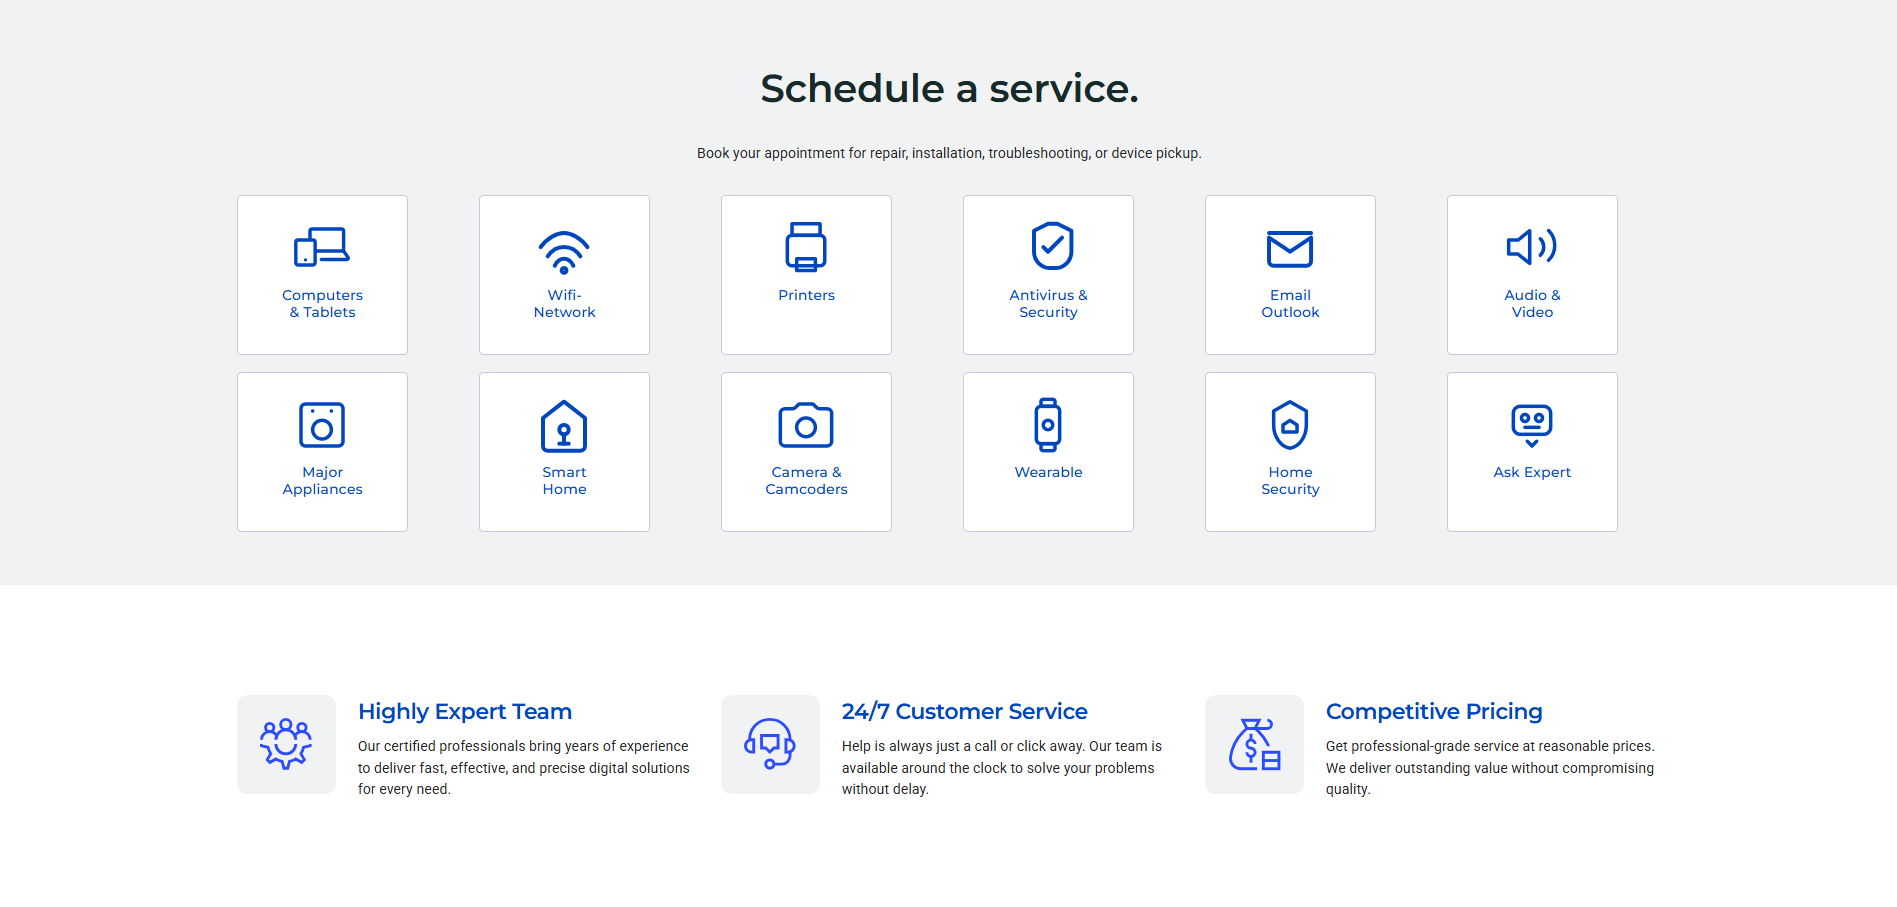
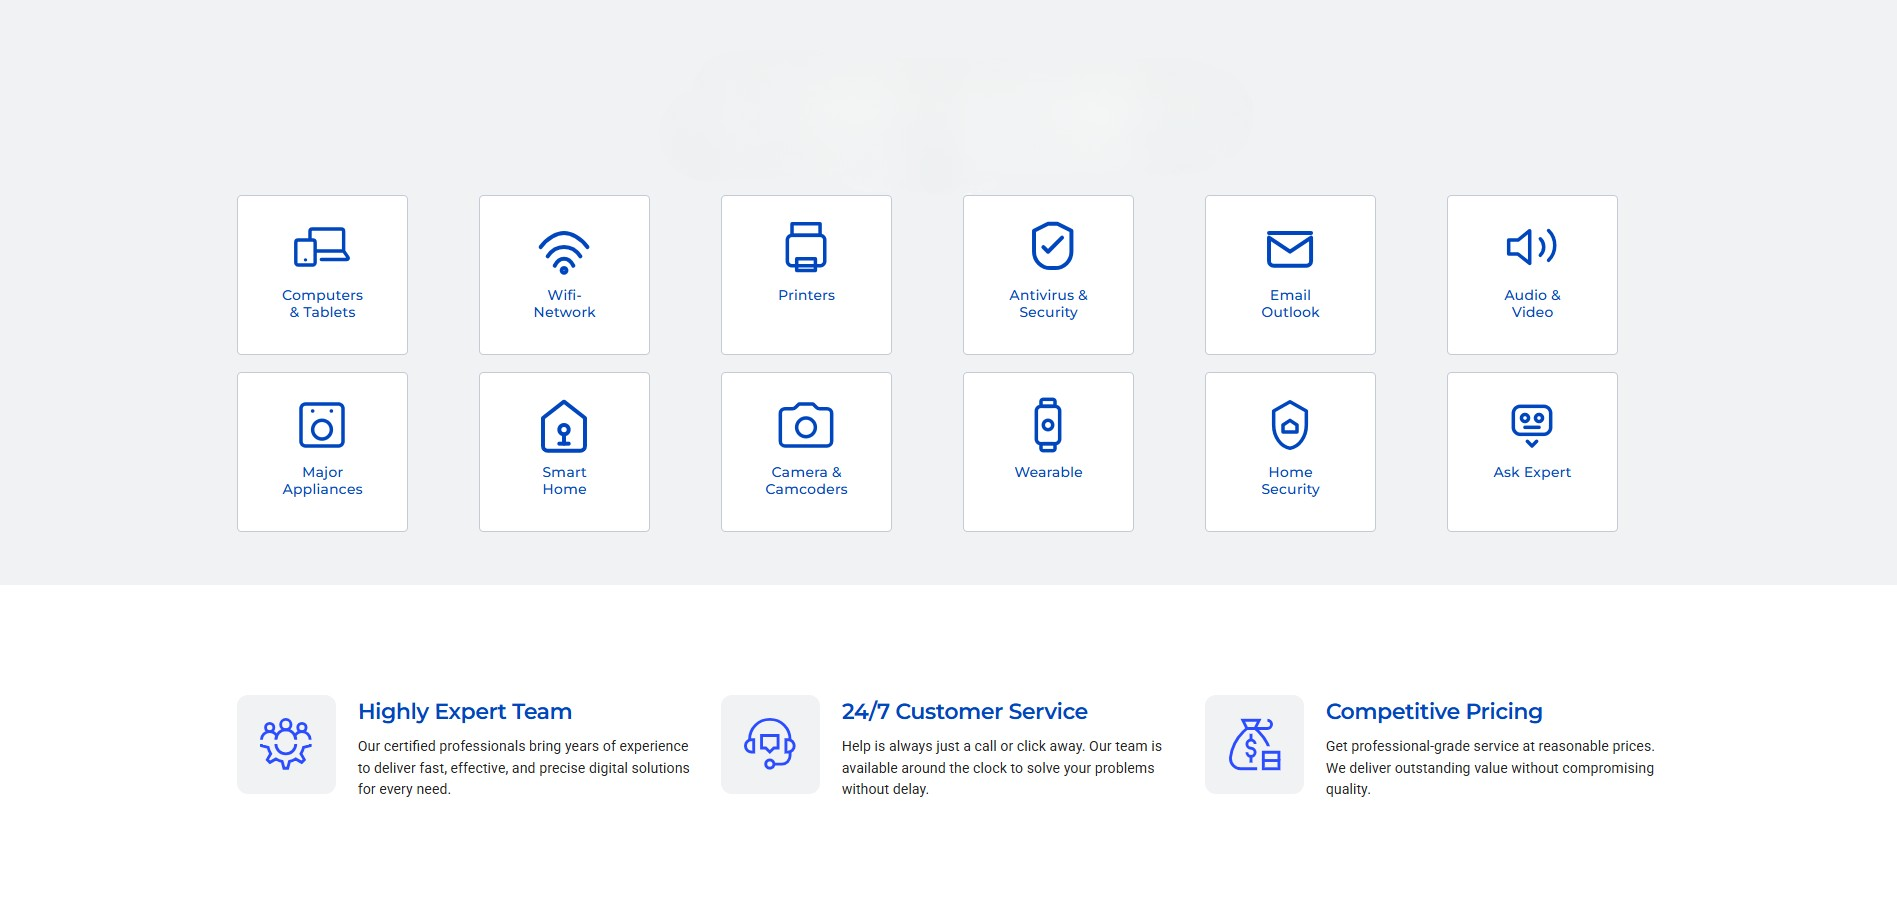
feat: update contact number to +1-402-508-9511 across website and hide static SEO content in index.html

diff --git a/index.html b/index.html
@@ -109,53 +109,61 @@
 
 <body>
   <div id="root">
-    <!-- Static Content for SEO Crawlers -->
-    <header>
-      <h1>Appliance Pixels - Professional Home Appliance Repair Services in Hilliard, Ohio</h1>
-    </header>
-    <main>
-      <section>
-        <h2>Expert Appliance Repair Solutions for Your Home</h2>
-        <p>Appliance Pixels is your premier destination for professional and reliable home appliance repair services in
-          Hilliard, Ohio, and the surrounding areas. We specialize in restoring the functionality of your essential
-          household machines with precision and care. Our team of certified technicians is dedicated to providing
-          high-quality service, ensuring your home runs smoothly without interruption.</p>
-      </section>
-      <section>
-        <h3>Our Core Repair Services</h3>
-        <ul>
-          <li><strong>Washing Machine Repair:</strong> We handle all types of washers, including front-load and top-load
-            models. From drum issues to electronic failures, our experts diagnose and fix problems quickly.</li>
-          <li><strong>Refrigerator and Freezer Repair:</strong> Keep your food fresh with our expert cooling system
-            services. We address compressor issues, thermostat malfunctions, and leaks.</li>
-          <li><strong>Air Conditioner Servicing:</strong> Stay comfortable year-round. We provide seasonal maintenance
-            and emergency repairs for split and window AC units.</li>
-          <li><strong>Dishwasher Repair:</strong> We resolve drainage problems, cleaning cycle issues, and mechanical
-            failures in all major dishwasher brands.</li>
-          <li><strong>Oven and Stove Repair:</strong> Our technicians ensure your cooking appliances are safe and
-            efficient, repairing gas and electric ranges, hobs, and ovens.</li>
-          <li><strong>Television Repair:</strong> Specialized technical support for LED, LCD, and Smart TV screens and
-            audio components.</li>
-        </ul>
-      </section>
-      <section>
-        <h2>Why Choose Appliance Pixels?</h2>
-        <p>At Appliance Pixels, we pride ourselves on transparency and technical excellence. We offer a comprehensive
-          45-day warranty on all parts and labor, giving you peace of mind with every repair. Our technicians use only
-          genuine OEM parts to maintain manufacturer standards and extend the lifespan of your appliances. With our easy
-          online scheduling, you can book a service appointment in less than two minutes. We serve the Hilliard
-          community and nearby locations like Dublin and Upper Arlington with pride.</p>
-        <p>Whether you need an emergency refrigerator fix or a routine washing machine checkup, our professional team is
-          ready to assist. We focus on providing forensic-level diagnostics to identify the root cause of failures,
-          preventing future issues and saving you money in the long run. Contact us today for elite restoration services
-          that you can trust.</p>
-      </section>
-      <section>
-        <h2>Contact Information</h2>
-        <p>Address: 4089 Leap Rd, Hilliard, OH 43026, United States</p>
-        <p>Email: info@appliancepixels.shop</p>
-      </section>
-    </main>
+    <div style="display: none;">
+      <!-- Static Content for SEO Crawlers -->
+      <header>
+        <h1>Appliance Pixels - Professional Home Appliance Repair Services in Hilliard, Ohio</h1>
+      </header>
+      <main>
+        <section>
+          <h2>Expert Appliance Repair Solutions for Your Home</h2>
+          <p>Appliance Pixels is your premier destination for professional and reliable home appliance repair services
+            in
+            Hilliard, Ohio, and the surrounding areas. We specialize in restoring the functionality of your essential
+            household machines with precision and care. Our team of certified technicians is dedicated to providing
+            high-quality service, ensuring your home runs smoothly without interruption.</p>
+        </section>
+        <section>
+          <h3>Our Core Repair Services</h3>
+          <ul>
+            <li><strong>Washing Machine Repair:</strong> We handle all types of washers, including front-load and
+              top-load
+              models. From drum issues to electronic failures, our experts diagnose and fix problems quickly.</li>
+            <li><strong>Refrigerator and Freezer Repair:</strong> Keep your food fresh with our expert cooling system
+              services. We address compressor issues, thermostat malfunctions, and leaks.</li>
+            <li><strong>Air Conditioner Servicing:</strong> Stay comfortable year-round. We provide seasonal maintenance
+              and emergency repairs for split and window AC units.</li>
+            <li><strong>Dishwasher Repair:</strong> We resolve drainage problems, cleaning cycle issues, and mechanical
+              failures in all major dishwasher brands.</li>
+            <li><strong>Oven and Stove Repair:</strong> Our technicians ensure your cooking appliances are safe and
+              efficient, repairing gas and electric ranges, hobs, and ovens.</li>
+            <li><strong>Television Repair:</strong> Specialized technical support for LED, LCD, and Smart TV screens and
+              audio components.</li>
+          </ul>
+        </section>
+        <section>
+          <h2>Why Choose Appliance Pixels?</h2>
+          <p>At Appliance Pixels, we pride ourselves on transparency and technical excellence. We offer a comprehensive
+            45-day warranty on all parts and labor, giving you peace of mind with every repair. Our technicians use only
+            genuine OEM parts to maintain manufacturer standards and extend the lifespan of your appliances. With our
+            easy
+            online scheduling, you can book a service appointment in less than two minutes. We serve the Hilliard
+            community and nearby locations like Dublin and Upper Arlington with pride.</p>
+          <p>Whether you need an emergency refrigerator fix or a routine washing machine checkup, our professional team
+            is
+            ready to assist. We focus on providing forensic-level diagnostics to identify the root cause of failures,
+            preventing future issues and saving you money in the long run. Contact us today for elite restoration
+            services
+            that you can trust.</p>
+        </section>
+        <section>
+          <h2>Contact Information</h2>
+          <p>Address: 4089 Leap Rd, Hilliard, OH 43026, United States</p>
+          <p>Phone: +1-402-508-9511</p>
+          <p>Email: info@appliancepixels.shop</p>
+        </section>
+      </main>
+    </div>
   </div>
   <script type="module" src="/src/main.jsx"></script>
 </body>

diff --git a/src/components/Header.jsx b/src/components/Header.jsx
@@ -49,7 +49,17 @@ const Header = () => {
         {/* Top Tier: Blue Info Bar */}
         <div className={`bg-blue-700 text-white transition-all duration-300 overflow-hidden ${scrolled ? 'h-0 opacity-0' : 'h-10 opacity-100'
           }`}>
-          <div className="container mx-auto px-6 lg:px-12 h-full flex justify-end items-center text-[11px] font-bold tracking-wider uppercase">
+          <div className="container mx-auto px-6 lg:px-12 h-full flex justify-between items-center text-[11px] font-bold tracking-wider uppercase">
+            <div className="flex items-center gap-6">
+              <a href="tel:4025089511" className="flex items-center gap-2 text-white hover:text-blue-200 transition-colors">
+                <HiPhone size={14} />
+                <span>+1-402-508-9511</span>
+              </a>
+              <a href="mailto:info@appliancepixels.shop" className="hidden md:flex items-center gap-2 text-white hover:text-blue-200 transition-colors">
+                <HiEnvelope size={14} />
+                <span>info@appliancepixels.shop</span>
+              </a>
+            </div>
             <div className="flex items-center gap-2 text-blue-200">
               <HiOutlineCheckBadge size={16} />
               <span className="font-black">Verified Technical Excellence</span>
@@ -224,7 +234,17 @@ const Header = () => {
 
             {/* Sidebar Footer */}
             <div className="p-8 bg-slate-50 border-t border-slate-100">
-              <div className="space-y-6">
+              <div className="space-y-4">
+                <a href="tel:4025089511" className="flex items-center gap-4 p-4 bg-white rounded-2xl shadow-sm">
+                  <div className="w-12 h-12 rounded-full bg-blue-50 flex items-center justify-center text-blue-700">
+                    <HiPhone size={20} />
+                  </div>
+                  <div>
+                    <p className="text-[10px] font-black text-slate-400 uppercase tracking-widest">Call Expert</p>
+                    <p className="text-lg font-heading font-black text-slate-900">+1-402-508-9511</p>
+                  </div>
+                </a>
+
                 <a href="mailto:info@appliancepixels.shop" className="flex items-center gap-4 p-4 bg-white rounded-2xl shadow-sm">
                   <div className="w-12 h-12 rounded-full bg-blue-50 flex items-center justify-center text-blue-700">
                     <HiEnvelope size={20} />

diff --git a/src/pages/ExpertSupport.jsx b/src/pages/ExpertSupport.jsx
@@ -20,6 +20,22 @@ const ExpertSupport = () => {
             <Link to="/" className="logo flex items-center no-underline">
               <h1 className="sitename m-0 text-white font-bold text-2xl">Customer Support</h1>
             </Link>
+
+            <nav id="navmenu" className="navmenu">
+              <div className="flex items-center gap-3 text-start">
+                <a href="tel:4025089511" className="flex items-center gap-3 no-underline transition-opacity hover:opacity-80" style={{ cursor: 'pointer' }}>
+                  <div className="rounded-full flex items-center justify-center flex-shrink-0" style={{ width: '45px', height: '45px', backgroundColor: 'rgba(255, 255, 255, 0.2)', color: 'rgb(255, 255, 255)' }}>
+                    <svg stroke="currentColor" fill="currentColor" strokeWidth="0" viewBox="0 0 512 512" height="18" width="18" xmlns="http://www.w3.org/2000/svg">
+                      <path d="M497.39 361.8l-112-48a24 24 0 0 0-28 6.9l-49.6 60.6A370.66 370.66 0 0 1 130.6 204.11l60.6-49.6a23.94 23.94 0 0 0 6.9-28l-48-112A24.16 24.16 0 0 0 122.6.61l-104 24A24 24 0 0 0 0 48c0 256.5 207.9 464 464 464a24 24 0 0 0 23.4-18.6l24-104a24.29 24.29 0 0 0-14.01-27.6z"></path>
+                    </svg>
+                  </div>
+                  <div className="flex flex-col">
+                    <span className="font-bold uppercase" style={{ fontSize: '11px', color: 'rgba(255, 255, 255, 0.8)', lineHeight: '1.2' }}>Call Anytime</span>
+                    <span className="font-bold whitespace-nowrap" style={{ fontSize: '20px', color: 'rgb(255, 255, 255)', lineHeight: '1.2' }}>+1-402-508-9511</span>
+                  </div>
+                </a>
+              </div>
+            </nav>
           </div>
         </div>
       </header>

diff --git a/src/pages/Services.jsx b/src/pages/Services.jsx
@@ -152,6 +152,22 @@ const Services = () => {
             <Link to="/" className="logo flex items-center no-underline">
               <h1 className="sitename m-0 text-white font-bold text-2xl">Customer Support</h1>
             </Link>
+
+            <nav id="navmenu" className="navmenu">
+              <div className="flex items-center gap-3 text-start">
+                <a href="tel:4025089511" className="flex items-center gap-3 no-underline transition-opacity hover:opacity-80" style={{ cursor: 'pointer' }}>
+                  <div className="rounded-full flex items-center justify-center flex-shrink-0" style={{ width: '45px', height: '45px', backgroundColor: 'rgba(255, 255, 255, 0.2)', color: 'rgb(255, 255, 255)' }}>
+                    <svg stroke="currentColor" fill="currentColor" strokeWidth="0" viewBox="0 0 512 512" height="18" width="18" xmlns="http://www.w3.org/2000/svg">
+                      <path d="M497.39 361.8l-112-48a24 24 0 0 0-28 6.9l-49.6 60.6A370.66 370.66 0 0 1 130.6 204.11l60.6-49.6a23.94 23.94 0 0 0 6.9-28l-48-112A24.16 24.16 0 0 0 122.6.61l-104 24A24 24 0 0 0 0 48c0 256.5 207.9 464 464 464a24 24 0 0 0 23.4-18.6l24-104a24.29 24.29 0 0 0-14.01-27.6z"></path>
+                    </svg>
+                  </div>
+                  <div className="flex flex-col">
+                    <span className="font-bold uppercase" style={{ fontSize: '11px', color: 'rgba(255, 255, 255, 0.8)', lineHeight: '1.2' }}>Call Anytime</span>
+                    <span className="font-bold whitespace-nowrap" style={{ fontSize: '20px', color: 'rgb(255, 255, 255)', lineHeight: '1.2' }}>+1-402-508-9511</span>
+                  </div>
+                </a>
+              </div>
+            </nav>
           </div>
         </div>
       </header>

diff --git a/src/pages/Contact.jsx b/src/pages/Contact.jsx
@@ -61,10 +61,10 @@ const Contact = () => {
             <div className="lg:col-span-1 space-y-6">
               <div className="p-8 bg-blue-50/50 border border-blue-100 rounded-[2rem] group hover:bg-white hover:shadow-xl hover:shadow-blue-600/5 transition-all duration-500">
                 <div className="w-12 h-12 bg-white rounded-2xl flex items-center justify-center text-blue-600 shadow-sm mb-6 group-hover:bg-blue-600 group-hover:text-white transition-all">
-                  <HiOutlineArrowPath size={24} />
+                  <HiOutlinePhone size={24} />
                 </div>
-                <p className="text-[10px] font-black uppercase tracking-widest text-slate-400 mb-2">Support Status</p>
-                <p className="text-xl font-heading font-black text-slate-900 leading-none">24/7 Online Support</p>
+                <p className="text-[10px] font-black uppercase tracking-widest text-slate-400 mb-2">Technical Hotline</p>
+                <a href="tel:4025089511" className="text-xl font-heading font-black text-slate-900 leading-none hover:text-blue-600 transition-colors">+1-402-508-9511</a>
               </div>
 
               <div className="p-8 bg-emerald-50/50 border border-emerald-100 rounded-[2rem] group hover:bg-white hover:shadow-xl hover:shadow-emerald-600/5 transition-all duration-500">

diff --git a/src/pages/policies/TermsOfService.jsx b/src/pages/policies/TermsOfService.jsx
@@ -38,7 +38,7 @@ const TermsOfService = () => {
               effective servicing.
             </p>
             <p>
-              You can contact us by email at <a href="mailto:info@appliancepixels.shop" className="text-primary">info@appliancepixels.shop</a>, or by
+              You can contact us by email at <a href="mailto:info@appliancepixels.shop" className="text-primary">info@appliancepixels.shop</a>, by phone at +1-402-508-9511, or by
               mail to 4089 Leap Rd, Hilliard, OH 43026, United States.
             </p>
             <p>
@@ -273,7 +273,8 @@ const TermsOfService = () => {
               4089 Leap Rd<br />
               Hilliard, OH 43026<br />
               United States<br />
-              <a href="mailto:info@appliancepixels.shop" className="text-primary">info@appliancepixels.shop</a>
+              Phone: +1-402-508-9511<br />
+              Email: <a href="mailto:info@appliancepixels.shop" className="text-primary">info@appliancepixels.shop</a>
             </address>
           </section>
         </div>

diff --git a/src/components/Footer.jsx b/src/components/Footer.jsx
@@ -140,11 +140,11 @@ const Footer = () => {
         <div className="grid grid-cols-1 md:grid-cols-3 gap-8 py-12 border-y border-slate-200 mb-12">
           <div className="flex items-center gap-5">
             <div className="w-12 h-12 rounded-2xl bg-blue-600/5 flex items-center justify-center text-blue-600 border border-blue-600/10">
-              <HiOutlineShieldCheck size={20} />
+              <HiOutlinePhone size={20} />
             </div>
             <div>
-              <p className="text-[10px] font-black text-slate-400 uppercase tracking-widest">Available</p>
-              <p className="text-sm font-heading font-black text-slate-900">24/7 Service Support</p>
+              <p className="text-[10px] font-black text-slate-400 uppercase tracking-widest">Call Technical Support</p>
+              <a href="tel:4025089511" className="text-sm font-heading font-black text-slate-900 hover:text-blue-600 transition-colors">+1-402-508-9511</a>
             </div>
           </div>
           <div className="flex items-center gap-5">

diff --git a/src/pages/policies/RefundPolicy.jsx b/src/pages/policies/RefundPolicy.jsx
@@ -78,8 +78,9 @@ const RefundPolicy = () => {
             <p>
               If you have any questions concerning our return policy, please contact us at:
             </p>
-            <div className="bg-primary text-white p-8 rounded-2xl shadow-xl mt-4 text-center">
-              <a href="mailto:info@appliancepixels.shop" className="text-secondary font-bold text-lg hover:underline">info@appliancepixels.shop</a>
+            <div className="bg-primary text-white p-8 rounded-2xl shadow-xl mt-4 text-center space-y-2">
+              <a href="tel:4025089511" className="block text-white font-bold text-lg hover:underline">+1-402-508-9511</a>
+              <a href="mailto:info@appliancepixels.shop" className="block text-secondary font-bold text-lg hover:underline">info@appliancepixels.shop</a>
             </div>
           </section>
         </div>

diff --git a/src/components/modals/BookingModal.jsx b/src/components/modals/BookingModal.jsx
@@ -109,6 +109,11 @@ const BookingModal = () => {
                 <span>Request Technical Visit</span>
                 <HiOutlineCheckBadge className="group-hover:scale-110 transition-transform" size={20} />
               </button>
+
+              <div className="text-center pt-2">
+                <p className="text-[10px] text-slate-400 font-bold uppercase tracking-widest mb-2">Or Call Us Directly</p>
+                <a href="tel:4025089511" className="text-blue-600 font-black text-lg hover:underline transition-all">+1-402-508-9511</a>
+              </div>
             </form>
           </div>
         )}

diff --git a/src/pages/policies/CookiePolicy.jsx b/src/pages/policies/CookiePolicy.jsx
@@ -129,6 +129,7 @@ const CookiePolicy = () => {
               4089 Leap Rd<br />
               Hilliard, OH 43026<br />
               United States<br />
+              Phone: +1-402-508-9511<br />
               Email: <a href="mailto:info@appliancepixels.shop" className="text-primary">info@appliancepixels.shop</a>
             </address>
           </section>

diff --git a/src/pages/policies/PrivacyPolicy.jsx b/src/pages/policies/PrivacyPolicy.jsx
@@ -276,7 +276,9 @@ const PrivacyPolicy = () => {
               Appliance Pixels<br />
               4089 Leap Rd<br />
               Hilliard, OH 43026<br />
-              United States
+              United States<br />
+              Phone: +1-402-508-9511<br />
+              Email: info@appliancepixels.shop
             </address>
           </section>
 
